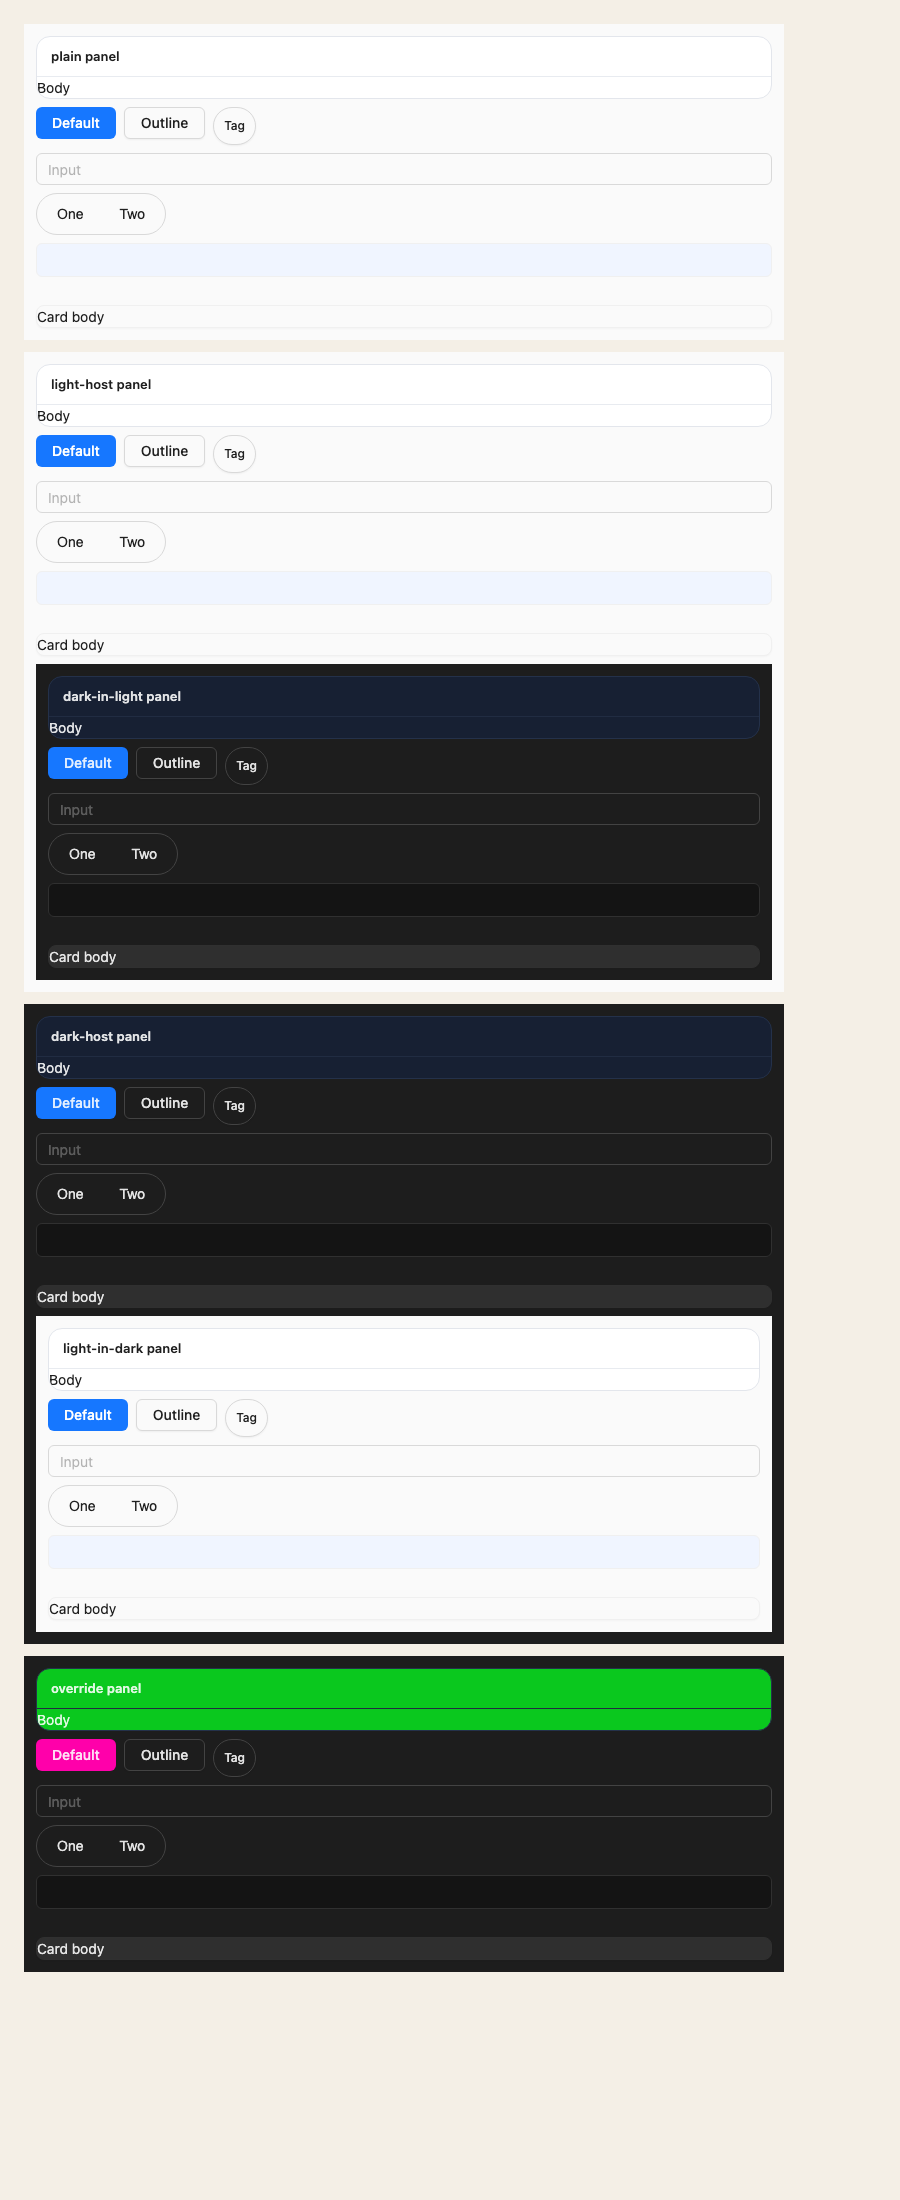
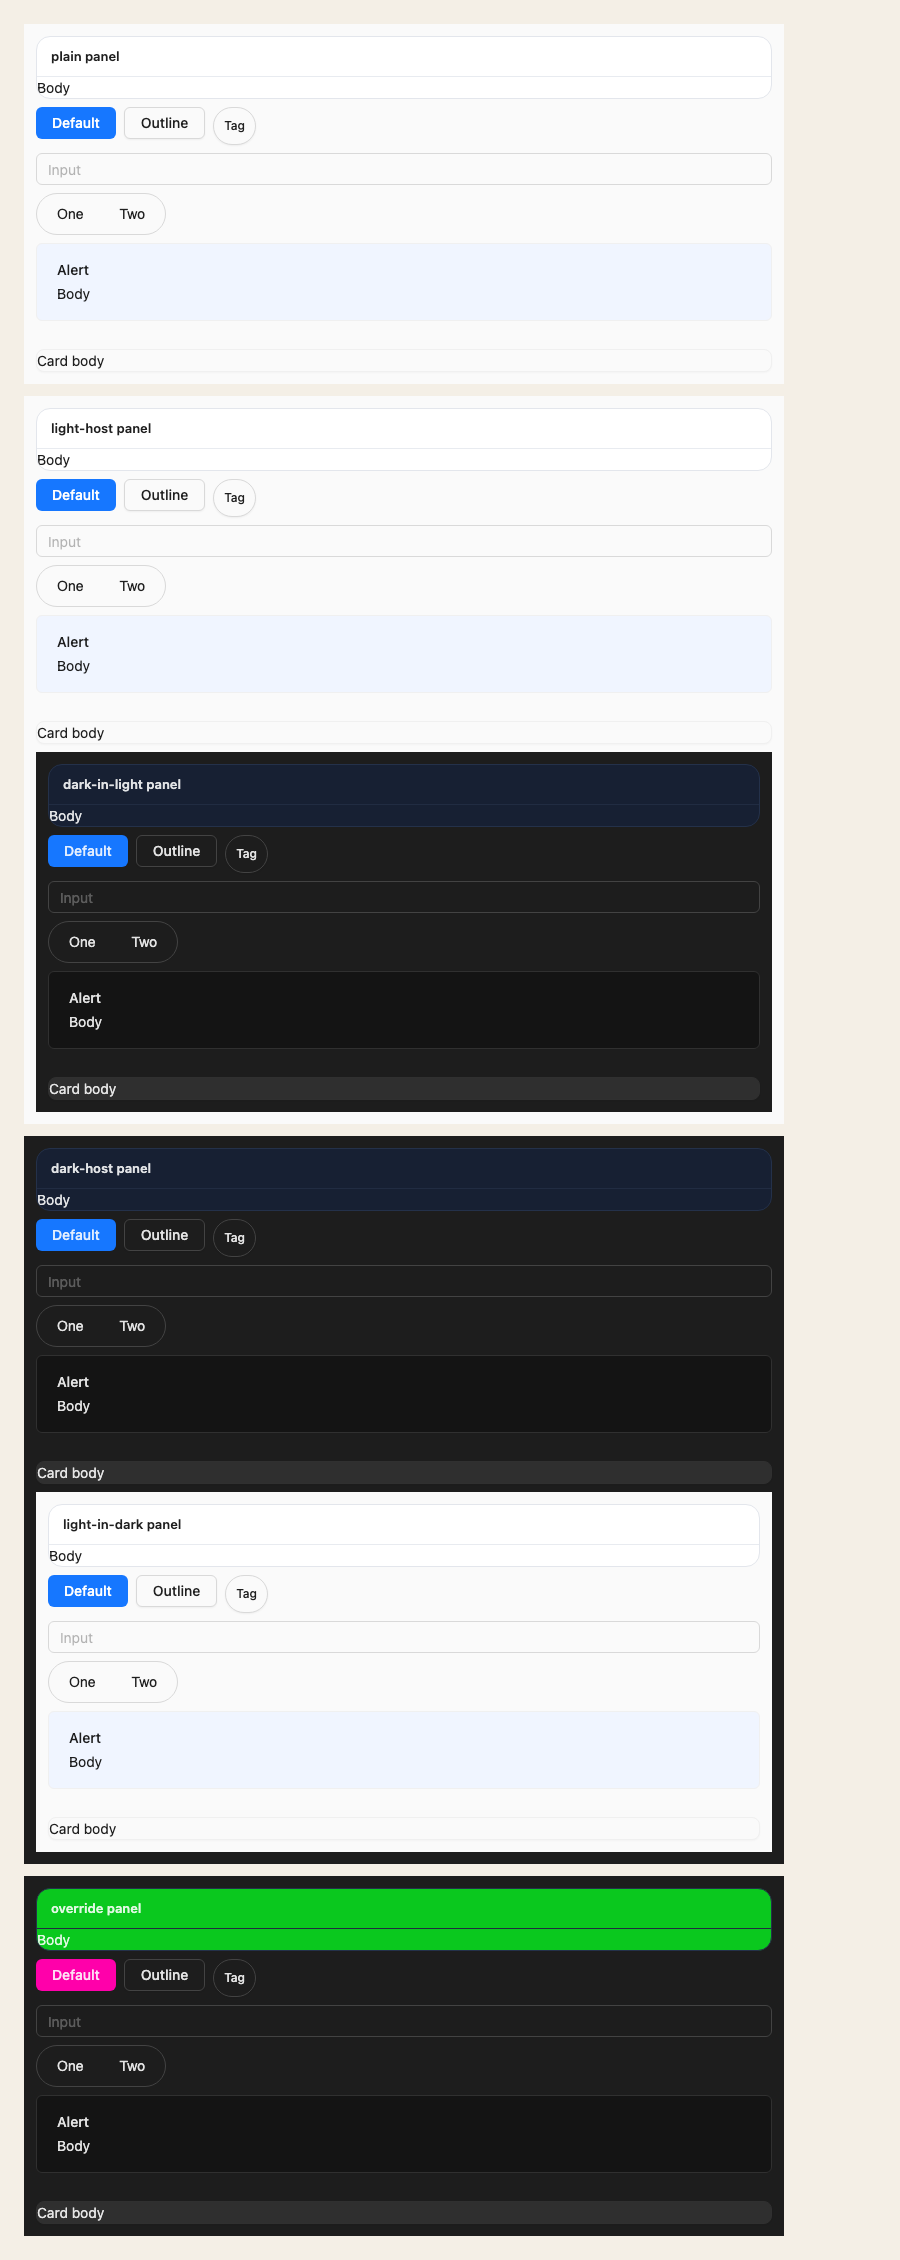
fix(theming): Theming factories typecheck (Alert title/children), drop unused barrel

diff --git a/packages/core/fixtures/host-app/d.tsx b/packages/core/fixtures/host-app/d.tsx
@@ -17,7 +17,7 @@ const Set = ({ id, theme, style, children }: { id: string; theme?: 'light' | 'da
     </div>
     <Input placeholder="Input" aria-label={`${id} input`} />
     <div data-probe="segmented" data-fixture><Segmented aria-label={`${id} segmented`} options={options} defaultValue="a" /></div>
-    <div data-probe="alert" data-fixture><Alert message="Alert" /></div>
+    <div data-probe="alert" data-fixture><Alert title="Alert">Body</Alert></div>
     <div data-probe="card" data-fixture><Card>Card body</Card></div>
     {children}
   </section>

diff --git a/packages/core/src/Theming/Theming.factories.tsx b/packages/core/src/Theming/Theming.factories.tsx
@@ -41,7 +41,7 @@ export const ThemedSet: React.FC<ThemedSetProps> = ({ title, theme, tokens, chil
     </div>
     <Input placeholder="Input" aria-label={`${title} input`} />
     <Segmented aria-label={`${title} segmented`} options={OPTIONS} defaultValue="a" />
-    <Alert message="Alert" />
+    <Alert title="Alert">Body</Alert>
     <Card>Card body</Card>
     {children}
   </section>
